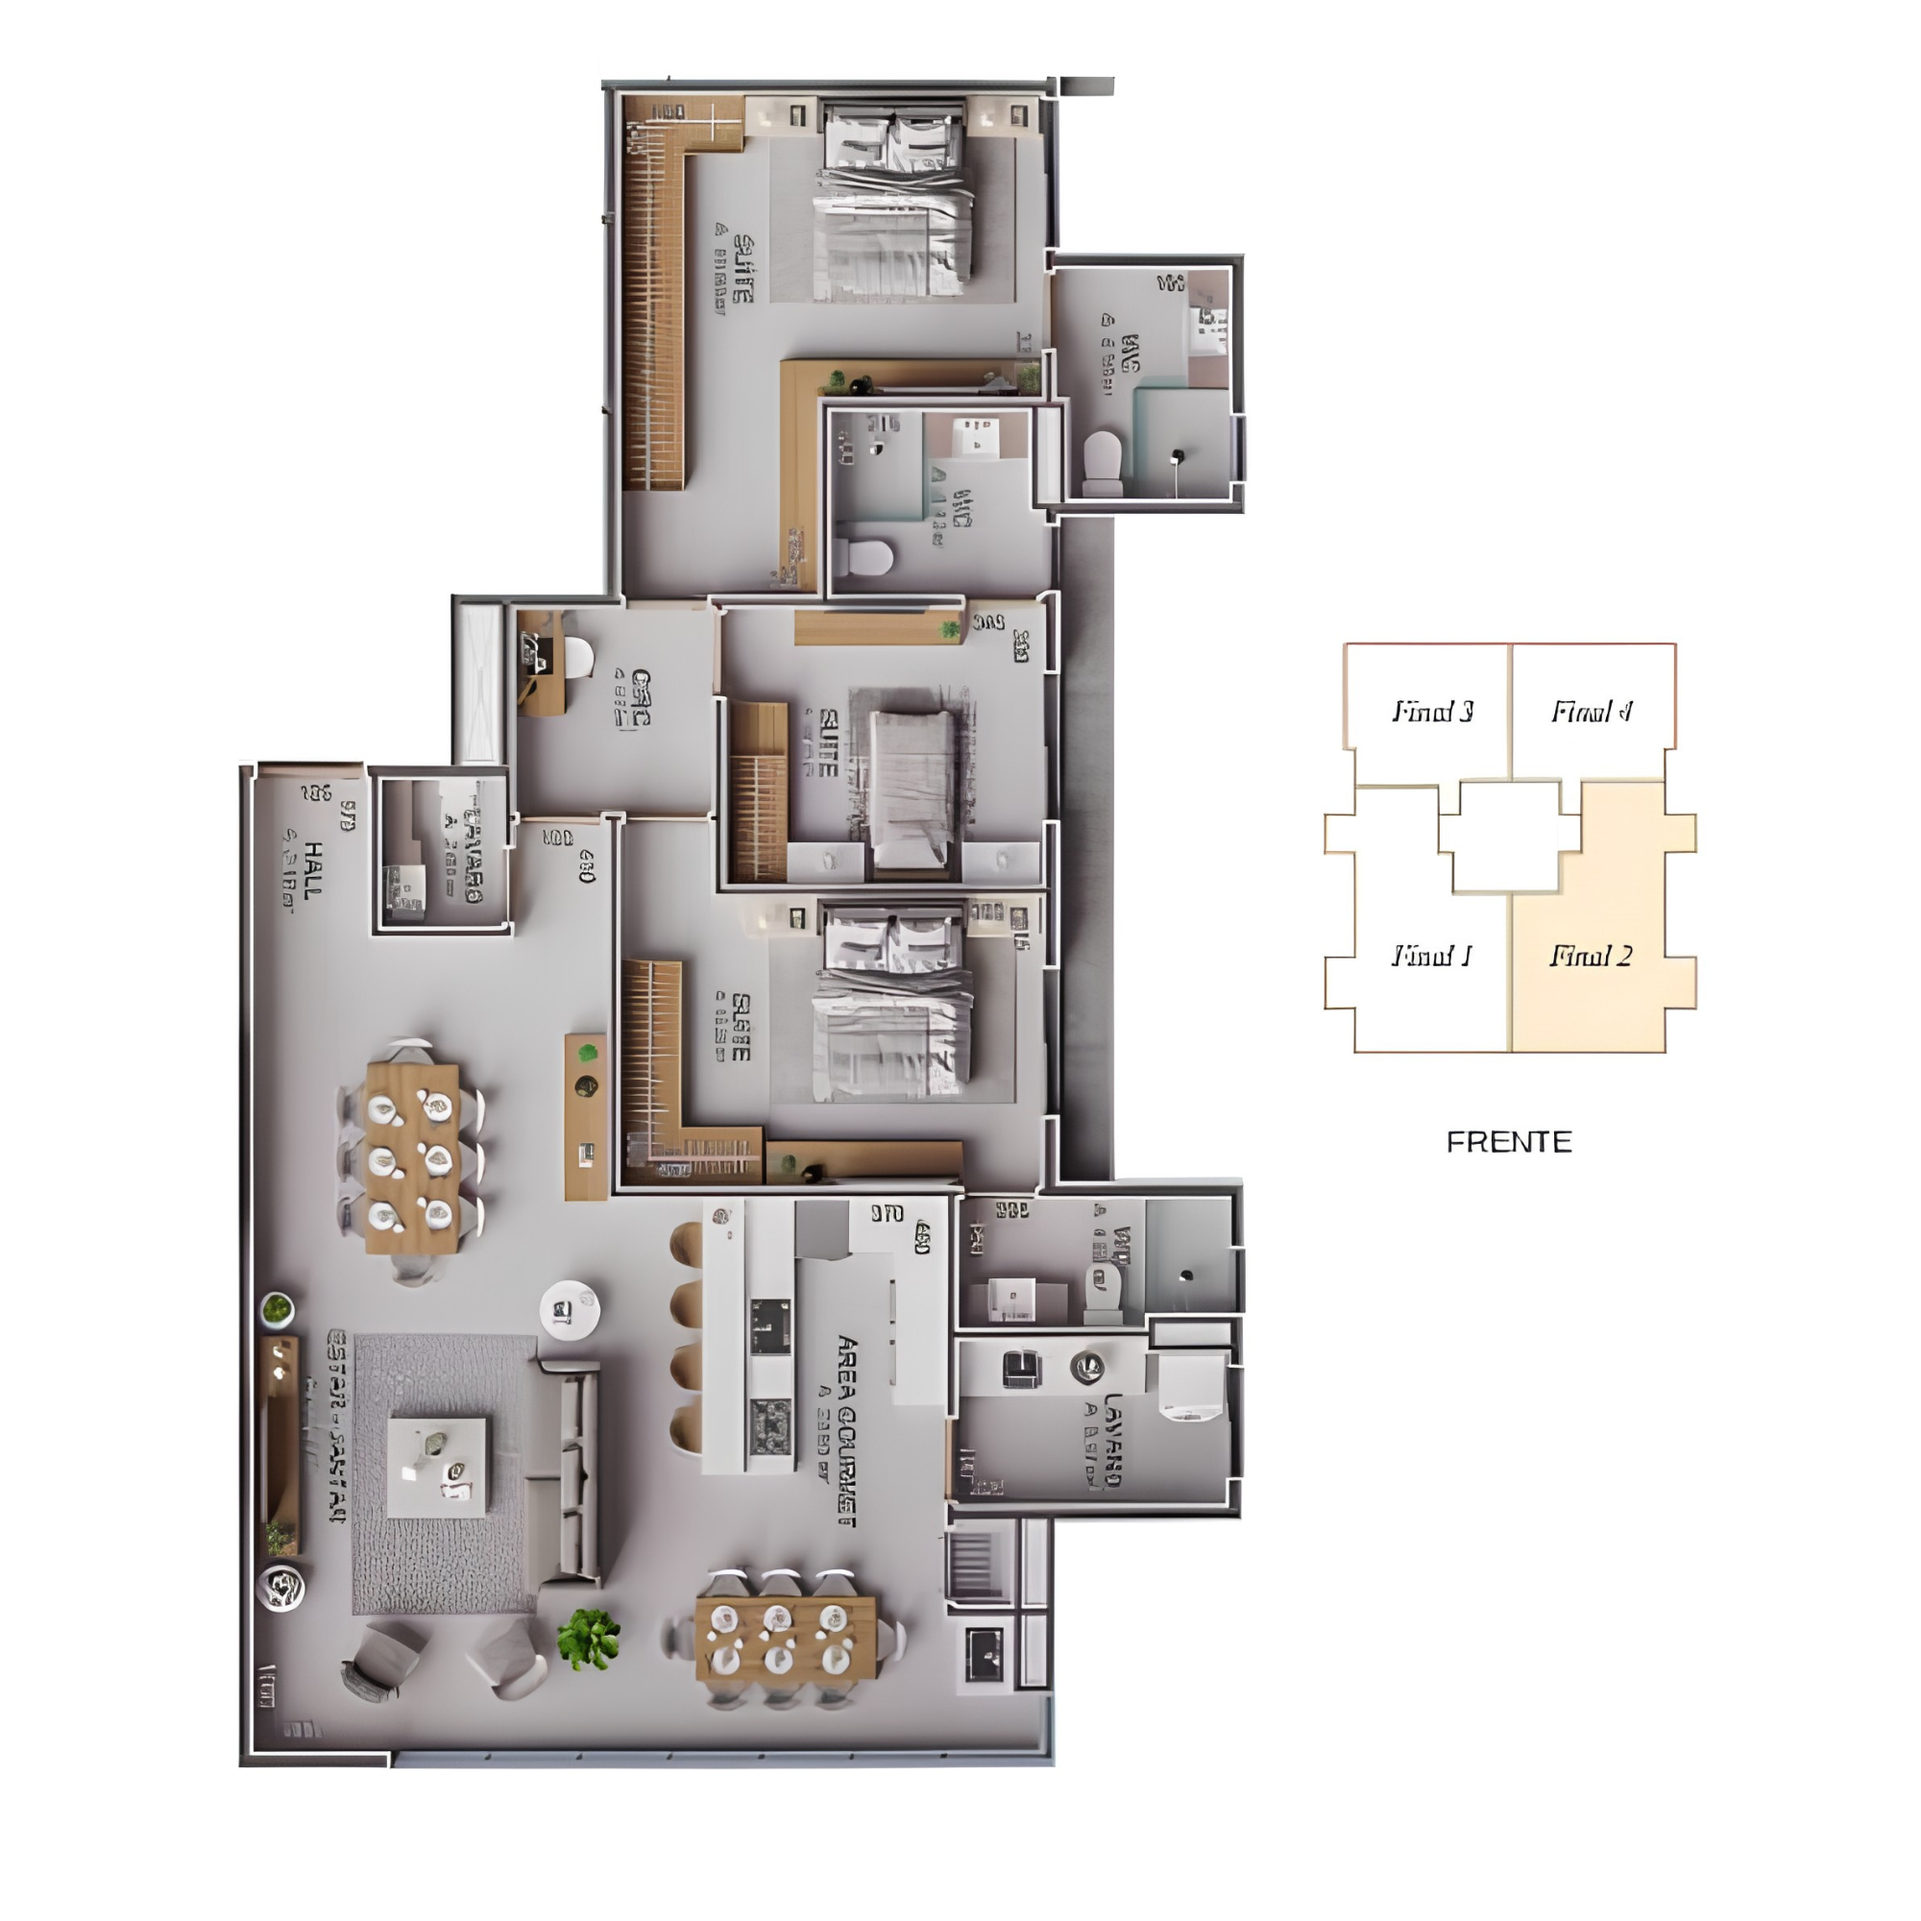
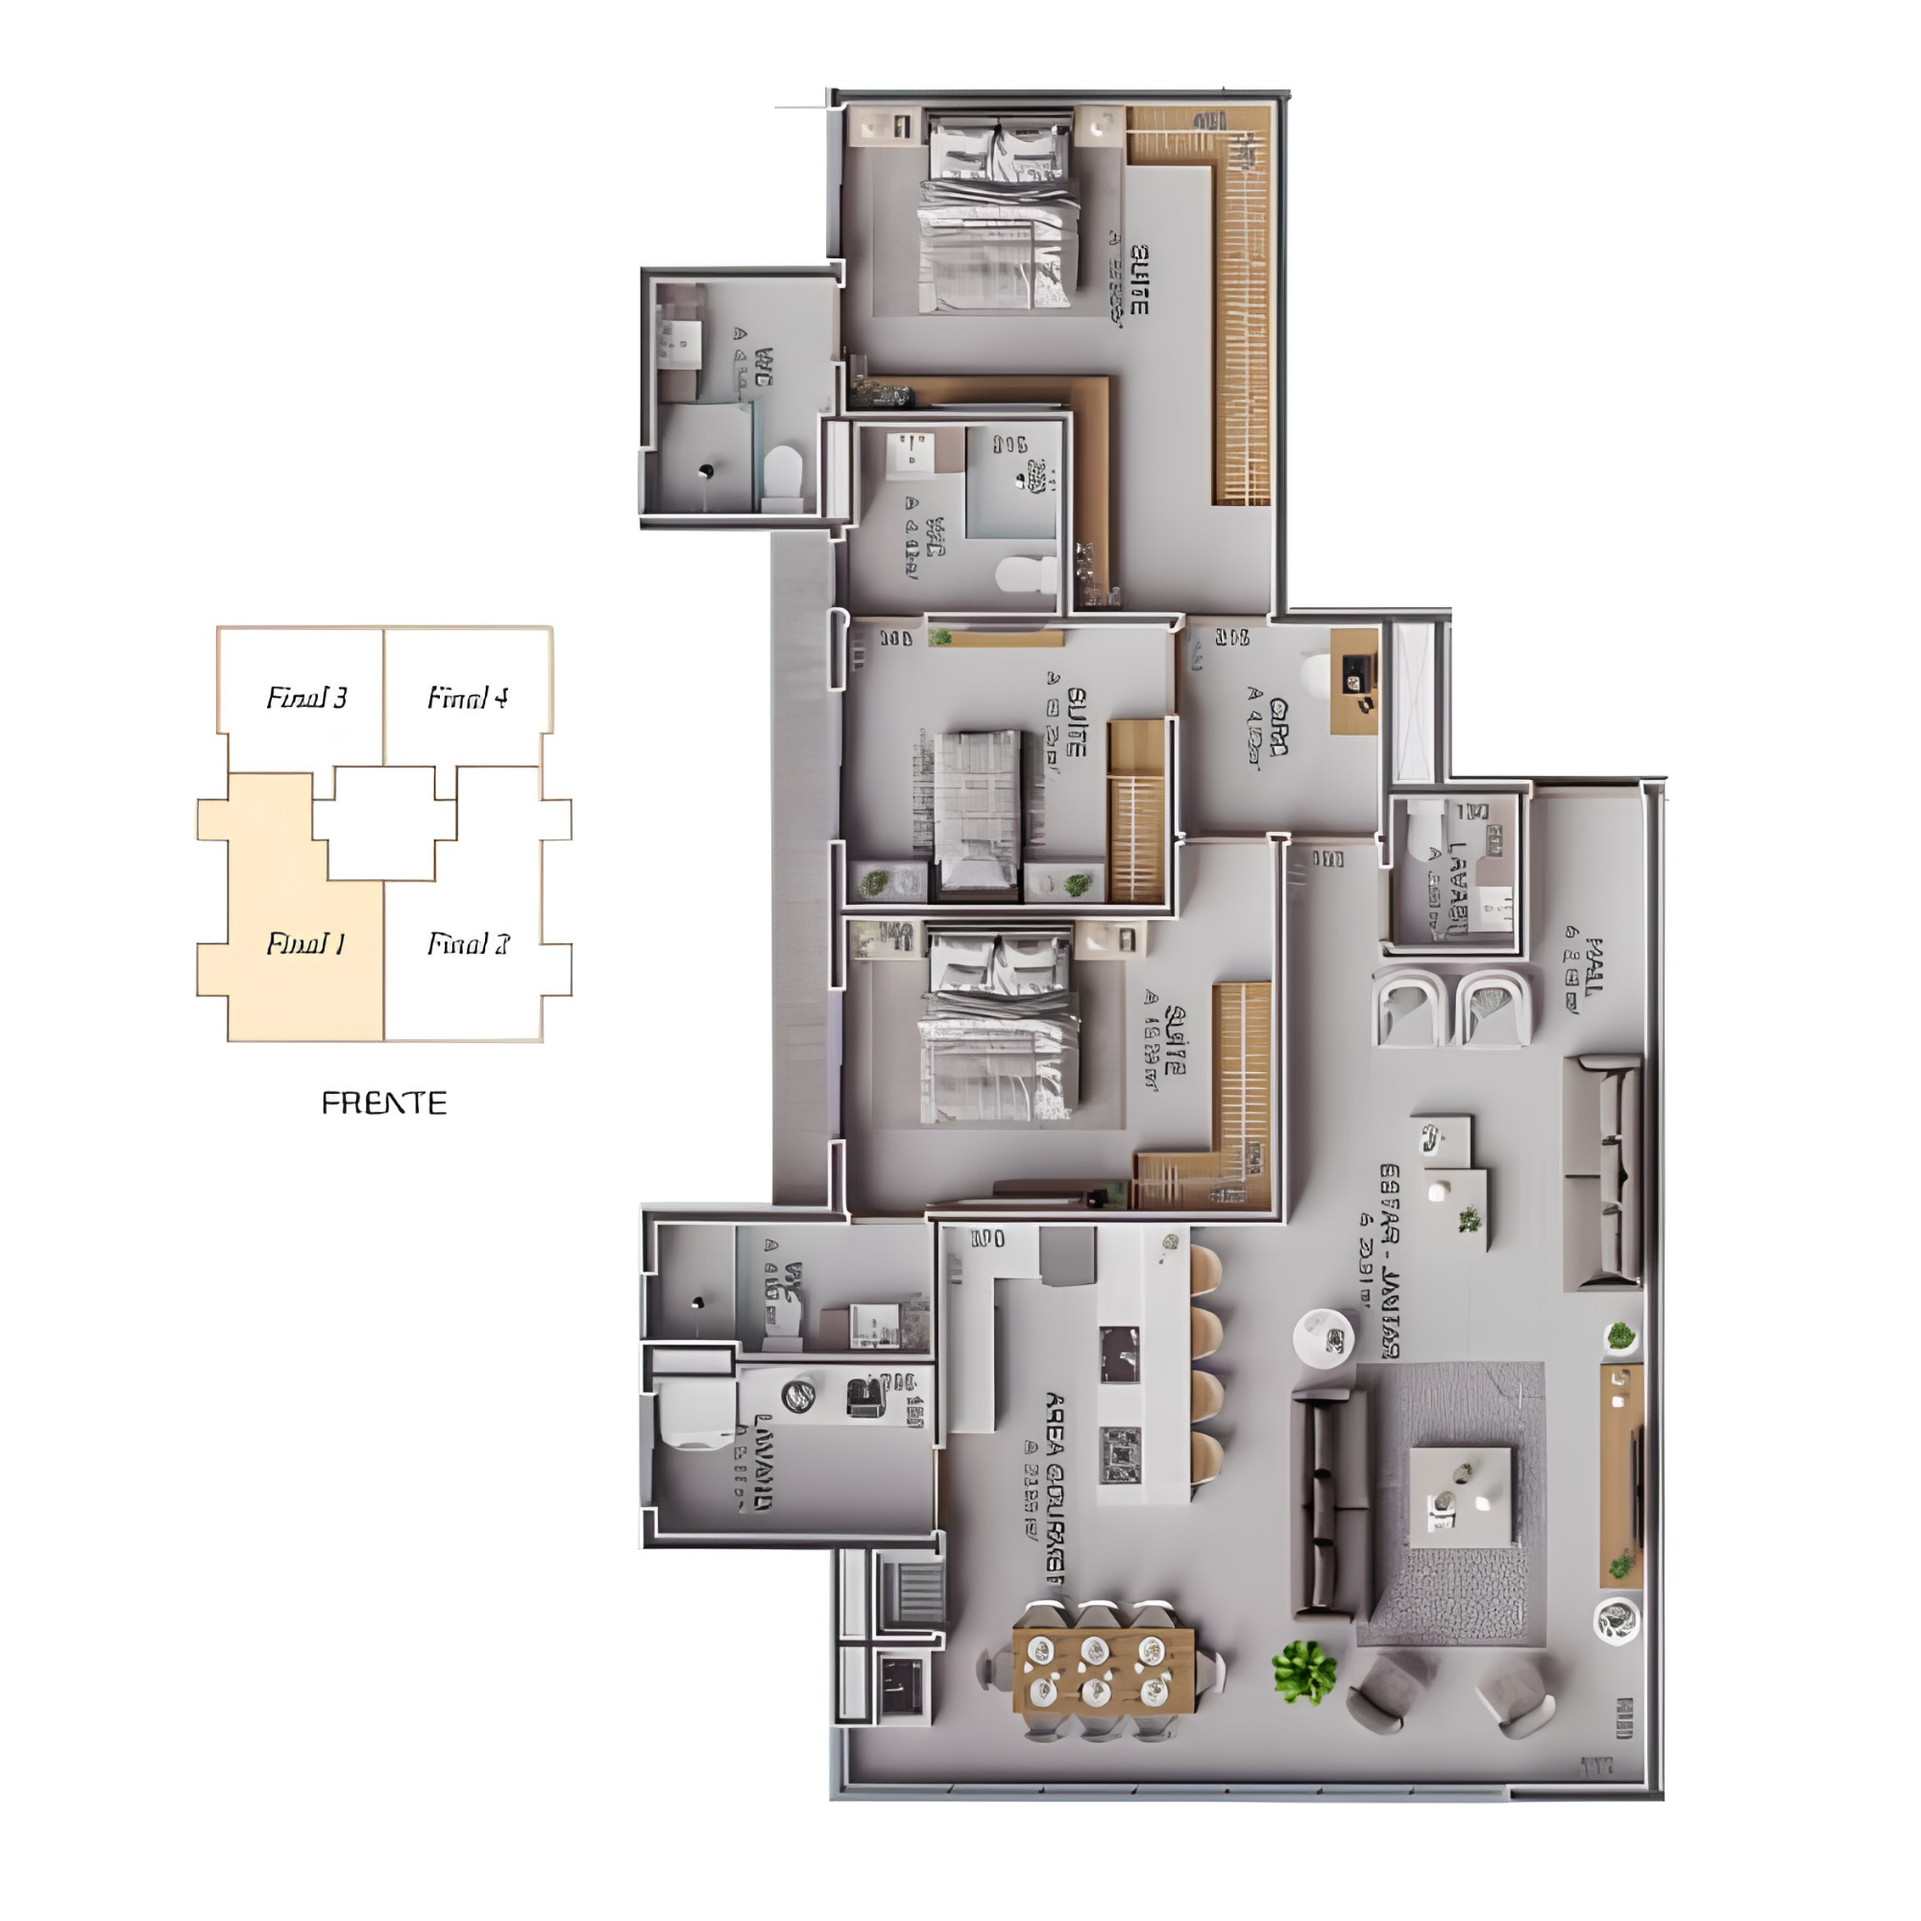
v424: 1 arquivo enviado (painel administrativo)

diff --git a/index.html b/index.html
@@ -20,12 +20,12 @@
   <link rel="preconnect" href="https://fonts.googleapis.com">
   <link rel="preconnect" href="https://fonts.gstatic.com" crossorigin>
   <link href="https://fonts.googleapis.com/css2?family=Inter:wght@400;500;600;700&family=Montserrat:wght@400;500;600;700&display=swap" rel="stylesheet">
-  <link rel="icon" href="icons/favicon.ico?v=423" sizes="any">
-  <link rel="icon" type="image/png" sizes="32x32" href="icons/favicon-32.png?v=423">
-  <link rel="icon" type="image/png" sizes="16x16" href="icons/favicon-16.png?v=423">
-  <link rel="apple-touch-icon" href="icons/apple-touch-icon.png?v=423">
+  <link rel="icon" href="icons/favicon.ico?v=424" sizes="any">
+  <link rel="icon" type="image/png" sizes="32x32" href="icons/favicon-32.png?v=424">
+  <link rel="icon" type="image/png" sizes="16x16" href="icons/favicon-16.png?v=424">
+  <link rel="apple-touch-icon" href="icons/apple-touch-icon.png?v=424">
   <link rel="manifest" href="manifest.json">
-  <link rel="stylesheet" href="styles.css?v=423">
+  <link rel="stylesheet" href="styles.css?v=424">
 </head>
 <body>
   <a class="skip-link" href="#conteudo">Ir para o conteúdo</a>
@@ -280,7 +280,7 @@
 
   <div class="toast" id="toast" role="status" aria-live="polite"></div>
 
-  <script src="data.js?v=423"></script>
-  <script src="app.js?v=423"></script>
+  <script src="data.js?v=424"></script>
+  <script src="app.js?v=424"></script>
 </body>
 </html>

diff --git a/sw.js b/sw.js
@@ -1,5 +1,5 @@
-const CACHE = "senger-portfolio-v423-20261014-painel";
-const CORE = ["./", "./index.html", "./styles.css?v=423", "./data.js?v=423", "./app.js?v=423", "./manifest.json"];
+const CACHE = "senger-portfolio-v424-20261014-painel";
+const CORE = ["./", "./index.html", "./styles.css?v=424", "./data.js?v=424", "./app.js?v=424", "./manifest.json"];
 
 self.addEventListener("install", (event) => {
   event.waitUntil(
